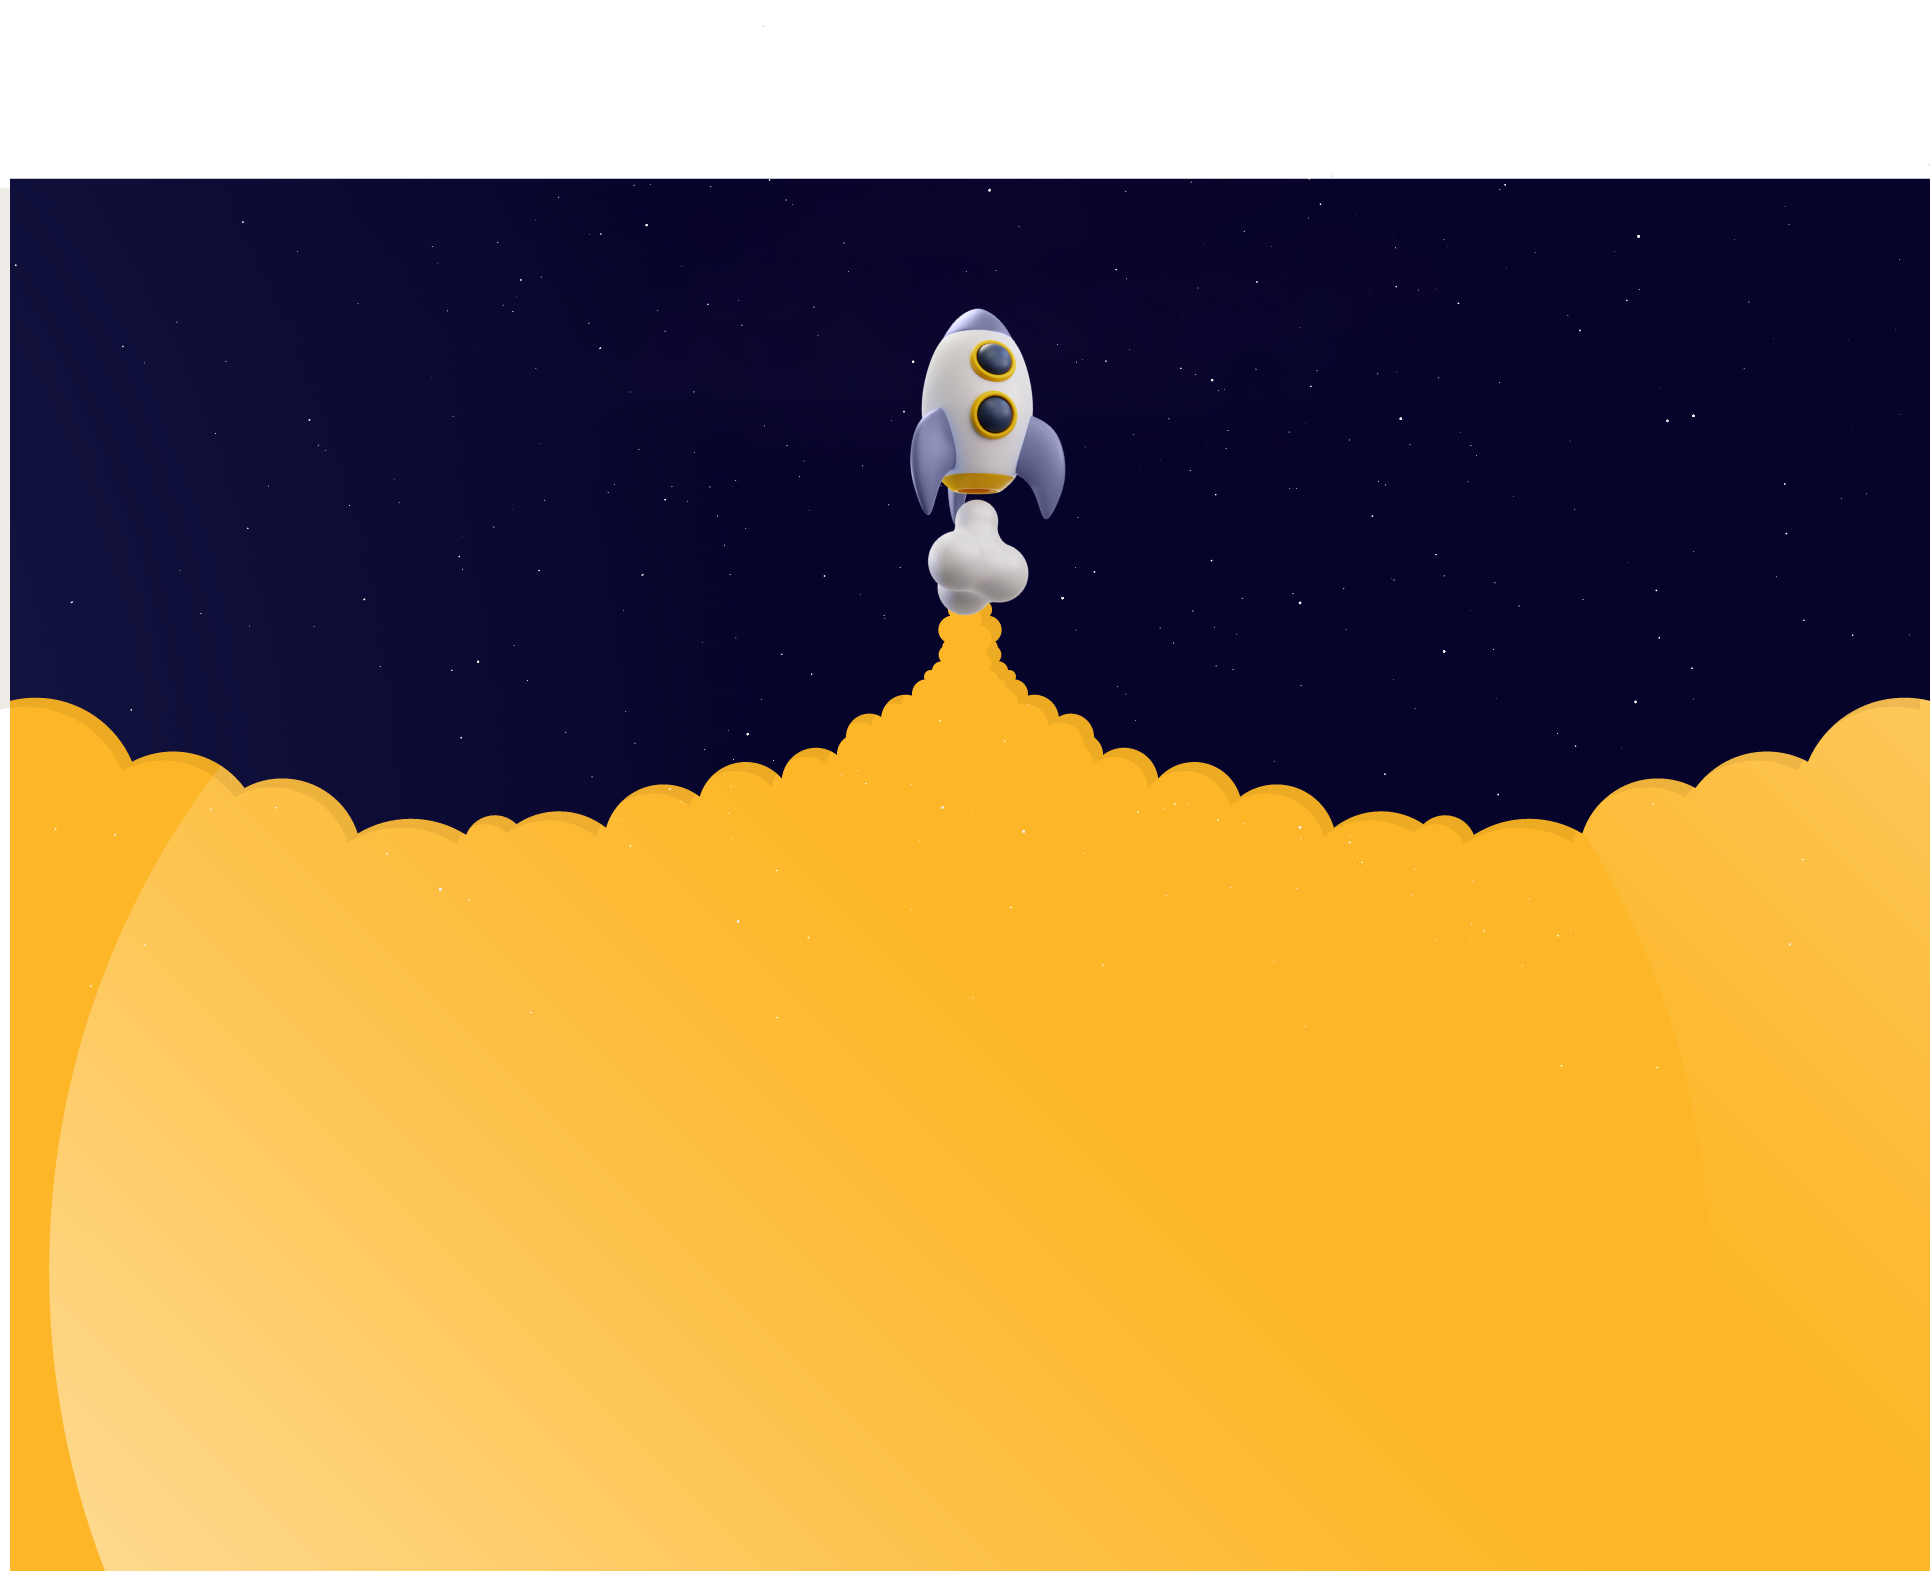
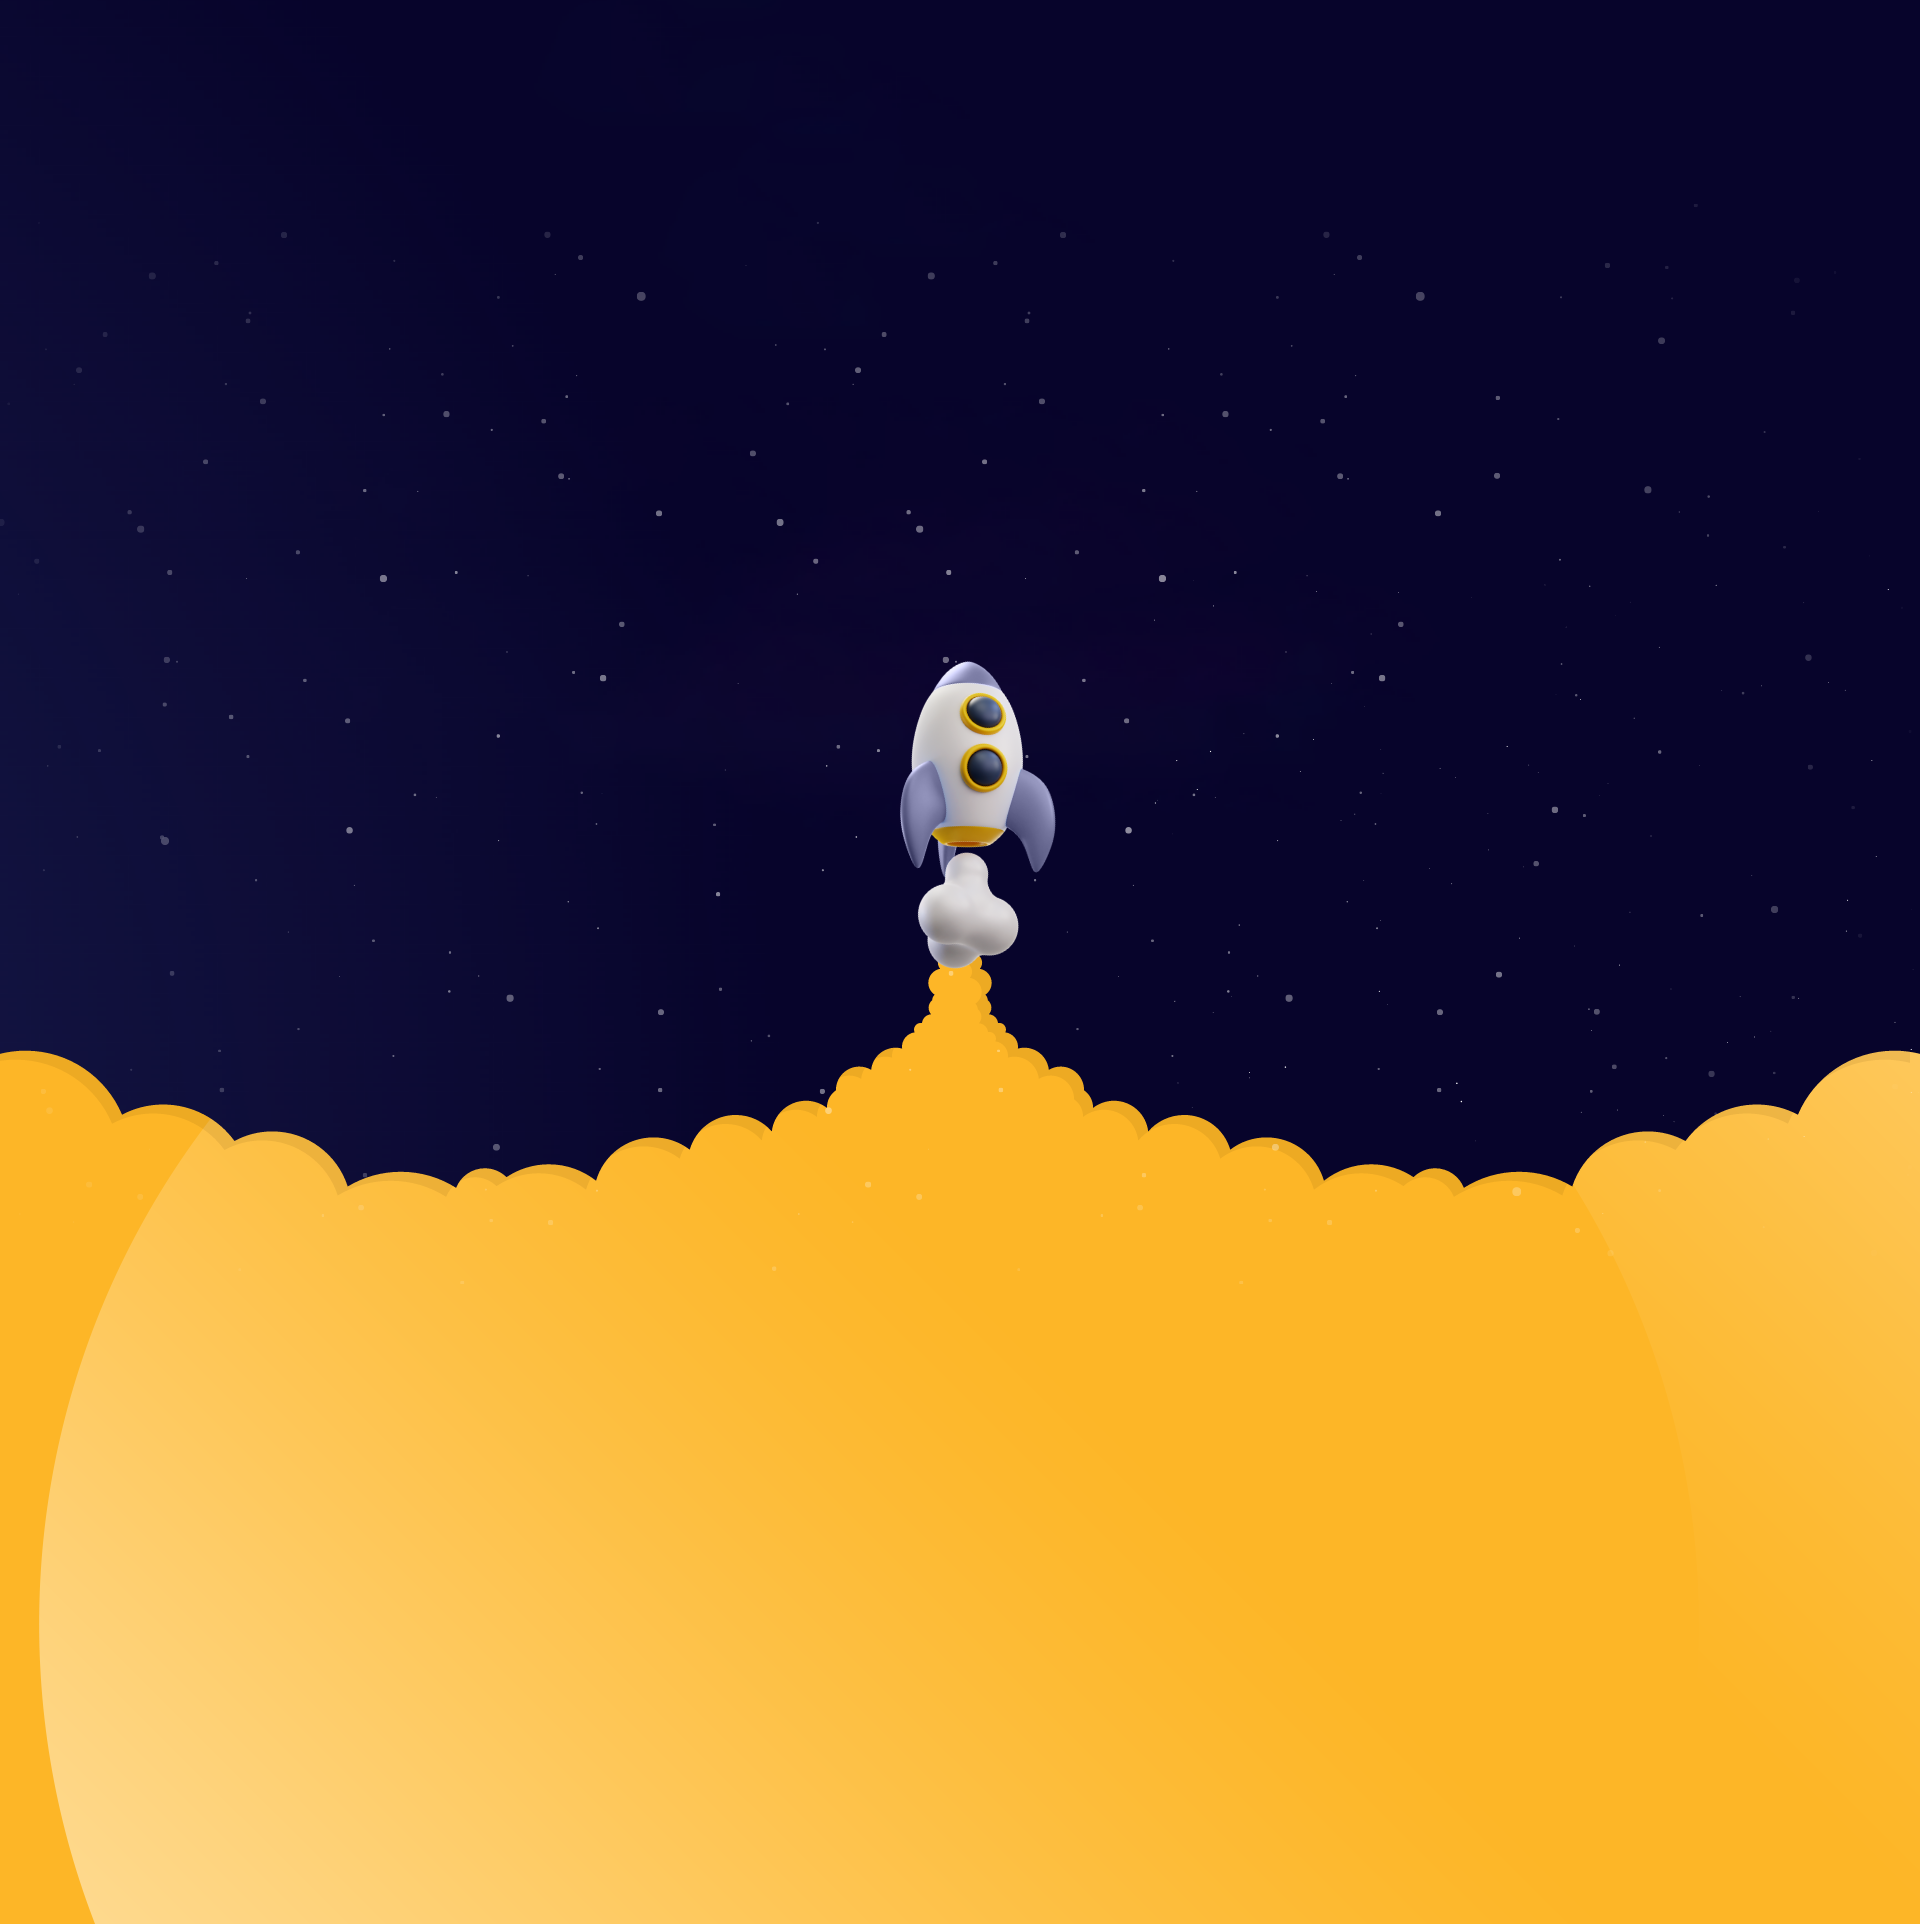
Solution Page Update

Changed region(s): [[0.0, 0.0, 1.0, 1.0]]

diff --git a/public/css/app-extended.css b/public/css/app-extended.css
@@ -1,5 +1,9 @@
 /* New Design Update */
-.newHome header .navbar{background-color: transparent !important;}
+@media screen and (min-width: 1600px) {
+    .carouselSection .container-xl {max-width: 1500px;}
+}
+
+.newHome header .navbar{background-color: transparent !important;padding: 23px 0;}
 .newHome .about-us::after {content: '';width: 95px;height: 100%;position: absolute;left: 0;top: 0;background: transparent linear-gradient(180deg, #07042A 10%, rgba(253, 182, 39, 0.4) 70%, #FDB627 100%) 0% 0% no-repeat;z-index: 3;}
 .newHome .slider-area .raw-card {background: transparent;position: relative;overflow: hidden;border: 1px solid rgba(255,255,255,1);border-radius: 24px;}
 .newHome .slider-area .raw-card:hover{border-color: #FDB627;}
@@ -105,3 +109,27 @@
 .newHome .about-us::before {height: 281px;width: 201px;}
 .newHome .slider-area .slider-scroller::before {content: '';width: 138px;height: 92px;position: absolute;bottom: 60px;left: 33%;background-image: url(../images/preview-new.png);background-repeat: no-repeat;z-index: 0;}
 .newHome .slider-area .slider-scroller::after{content: '';width: 19px;height: 19px;position: absolute;bottom: 115px;left: calc(33% + 119px);background-image: url(../images/preview-new-cut.png);background-repeat: no-repeat;z-index: 2;}
+
+/* Solution Page */
+.newsolutions .solutionDetail{margin-top: 72px;}
+.newsolutions .solutionDetail h1{font-size: 55px;}
+
+.newsolutions .carouselSlider .slider-inner{border-radius: 20px;}
+.newsolutions .carouselSection .carouselSlider::after {content: '';background: url(../images/preview-4.png) no-repeat;position: absolute;bottom: -80px;left: 13%;width: 318px;height: 318px;transform: rotate(-150deg);z-index: 2;pointer-events: none;}
+.newsolutions .carouselSection::after {background-image: none;width: 100%;height: 358px;background: linear-gradient(rgba(7, 4, 43, 0) 0%, #07042b 100%);left: 0;top: 8px;transform: none;z-index: 0;}
+.newsolutions .companyCard .row{--bs-gutter-x: 25px;--bs-gutter-y: 100px;}
+.newsolutions .companyCard{margin-bottom: -270px;position: relative;z-index: 2;}
+.newsolutions .companyCard .companyCol:first-child::after,
+.newsolutions .companyCard .companyCol:nth-last-child(2)::before{display: none;}
+.newsolutions .companyCard .companyCol{margin-bottom: 0;}
+.newsolutions .skyndroket{padding-top: 435px;background-position: center top;}
+.newsolutions .skyndroket::before{background-position: 0 -60px;height: calc(100% - 160px);background-color: transparent;background-size: 100% auto;}
+.newsolutions .smokeContainer{margin-top: 29%;}
+
+.newsolutions .tabPanel .nav-pills{border-radius: 50px;}
+.newsolutions .tabPanel .nav-pills .nav-link{border-radius: 50px;}
+.newsolutions .tabPanel .nav-pills::-webkit-scrollbar {width: 4px;height: 4px;}
+.newsolutions .tabPanel .nav-pills::-webkit-scrollbar-track {background: rgba(255, 255, 255, 0.3);}
+.newsolutions .tabPanel .nav-pills::-webkit-scrollbar-thumb {background: #07042b;}
+.newsolutions .tabPanel .nav-pills::-webkit-scrollbar-thumb:hover {background: #07042b;}
+.newsolutions .readyProjectInner .btn-blue{border-radius: 50px;}

diff --git a/components/solutionDetails/SolutionDetails.js b/components/solutionDetails/SolutionDetails.js
@@ -29,7 +29,9 @@ export default function SolutionDetails({ detail, tags }) {
                         <div className="row">
                             <div className="col-12">
                                 <div className="text-center solutionInformation">
-                                    <span></span>
+                                    <span>
+                                        <img src="/images/solution-workflow-ani.png" alt="" />
+                                    </span>
                                     <h1>Your workflow just got <em className="text-active">simplified.</em> </h1>
                                     <p>Customizable web pages that speed up operations with less effort and more accuracy. </p>
                                 </div>
@@ -52,9 +54,10 @@ export default function SolutionDetails({ detail, tags }) {
                                             observeParents={true}
                                             coverflowEffect={{
                                                 rotate: 0,
-                                                stretch: 150,
-                                                depth: 220,
-                                                modifier: 1.5,
+                                                stretch: 120,
+                                                grabCursor: true,
+                                                depth: 410,
+                                                modifier: 1,
                                                 slideShadows: false,
                                             }}
                                             pagination={{ clickable: true, }}

diff --git a/public/css/app.css b/public/css/app.css
@@ -26,7 +26,7 @@ header { position: -webkit-sticky; position: sticky; top: 0; left: 0; right: 0; 
 header .bg-dark, header .navbar-collapse, header .navbar-brand { position: relative; z-index: 2; }
 header .bg-dark { background-color: #07042b !important; padding: 6px 0; }
 header .navbar-brand img { max-width: 119px; }
-header .navbar{ background-color: #07042b !important; padding: 6px 0; }
+header .navbar{ background-color: #07042b !important; padding: 10px 0; }
 header .nav-link { font-size: 18px; font-weight: 300; }
 header .nav-link.call-action {background-color: transparent;border: 1px solid #FDB627;border-radius: 25px;min-width: 174px;text-align: center;font-weight: 900;color: #fff;font-family: 'gilroy-regularuploaded_file';font-size: 15px;position: relative;background-image: url(../images/rightArrow-orange.svg);background-size: 6px auto;background-repeat: no-repeat;background-position: calc(100% - 33px) center;transition: all 0.5s;}
 header .nav-link.call-action:hover { background-color: #FDB627; border-color: #FDB627; color: #07042b; background-image: url(../images/rightArrow-blue.svg);background-position: 33px center;}

diff --git a/components/header/Header.js b/components/header/Header.js
@@ -16,7 +16,7 @@ export default function Header({ logo }) {
                 <img src={LineImage.src} alt="" />
             </div>
             <header>
-                <nav className="navbar navbar-expand-sm navbar-dark py-4">
+                <nav className="navbar navbar-expand-sm navbar-dark">
                     <div className="container-xl bg-include p-0">
                         <Link href="/" className="navbar-brand p-0">
 

diff --git a/pages/solutions.js b/pages/solutions.js
@@ -8,8 +8,10 @@ import GraphAPI from '../services/graphQL';
 function Solutions({ solutionDetails, tagSettings }) {
   useEffect(() => {
     document.body.classList.add('solutions');
+    document.body.classList.add('newsolutions');
     return () => {
       document.body.classList.remove('solutions');
+      document.body.classList.remove('newsolutions');
     };
   }, []);
   return (
